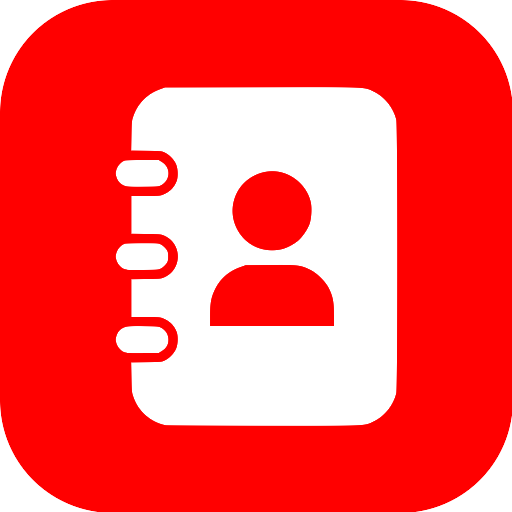
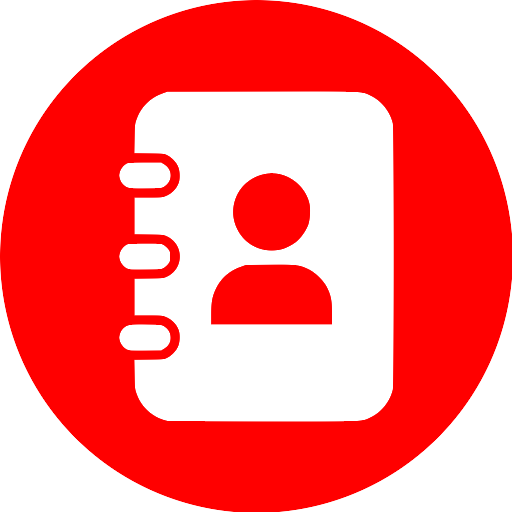
1.0.1: import, vCard and backup fixes, no fake-version warning
- Imported private contacts show up right away (issue #3)
- vCard 3 PREF keeps the preferred number on import (issue #4)
- Export and backups keep all parts of a full address (issue #5)
- Automatic backups are scheduled again after a reboot (issue #6)
- The empty dimmed window at the first start was Commons' "fake version"
  dialog, now removed (issue #1)
- Save row, tabs and settings stay above an on-screen navigation bar (#2)
- The editor keeps an unchanged address with its parts, no false
  "unsaved changes" prompt
- Stronger focused dialog button, icon in the shared DumberKit size

diff --git a/app/src/main/kotlin/org/fossify/contacts/activities/MainActivity.kt b/app/src/main/kotlin/org/fossify/contacts/activities/MainActivity.kt
@@ -114,9 +114,10 @@ class MainActivity : SimpleActivity(), RefreshContactsListener {
         appLaunched(BuildConfig.APPLICATION_ID)
         setupToolbar()
         keepFocusInList()
+        // a margin, not padding: the tabs have a fixed height, padding squeezed them under the navigation bar
         setupEdgeToEdge(
             padTopSystem = listOf(binding.mainTopBar),
-            padBottomImeAndSystem = listOf(binding.mainTabsHolder),
+            moveBottomSystem = listOf(binding.mainTabsHolder),
         )
         storeStateVariables()
         setupTabs()
@@ -355,6 +356,12 @@ class MainActivity : SimpleActivity(), RefreshContactsListener {
         binding.root.viewTreeObserver.addOnGlobalFocusChangeListener { _, newFocus ->
             val list = getCurrentFragment()?.getListView() ?: return@addOnGlobalFocusChangeListener
             val item = newFocus?.let { list.findContainingItemView(it) }
+            // back to normal once a row or the top bar has the focus again (see holdFocusInEmptyTab)
+            if (newFocus != null && newFocus != binding.viewPager && pagerFocusableBeforeHold != null) {
+                binding.viewPager.descendantFocusability = ViewGroup.FOCUS_AFTER_DESCENDANTS
+                binding.viewPager.isFocusable = pagerFocusableBeforeHold == true
+                pagerFocusableBeforeHold = null
+            }
             when {
                 item != null -> lastListPosition = list.getChildAdapterPosition(item)
                 allowLeavingList || newFocus == null || newFocus.isInside(binding.viewPager) -> lastListPosition = -1
@@ -471,6 +478,23 @@ class MainActivity : SimpleActivity(), RefreshContactsListener {
         return getCurrentFragment()?.focusContent(position) == true
     }
 
+    /**
+     * An empty tab (no favorites, no groups) has nothing to focus: the pager holds the focus, without a frame, so
+     * ← / → still switch the tabs and ↑ goes to the top bar. On the top bar the arrows would only move between its
+     * buttons.
+     */
+    private var pagerFocusableBeforeHold: Boolean? = null
+
+    private fun holdFocusInEmptyTab() {
+        if (pagerFocusableBeforeHold == null) {
+            pagerFocusableBeforeHold = binding.viewPager.isFocusable
+        }
+        binding.viewPager.isFocusable = true
+        binding.viewPager.defaultFocusHighlightEnabled = false
+        binding.viewPager.descendantFocusability = ViewGroup.FOCUS_BEFORE_DESCENDANTS
+        binding.viewPager.requestFocus()
+    }
+
     private fun focusTopBar() = moveFocusOutOfList {
         if (isSearchOpen) {
             binding.mainSearchInput.requestFocus()
@@ -505,7 +529,7 @@ class MainActivity : SimpleActivity(), RefreshContactsListener {
             pager.descendantFocusability = ViewGroup.FOCUS_AFTER_DESCENDANTS
             pager.isFocusable = wasFocusable
             if (!focusCurrentList(0)) {
-                focusTopBar()
+                holdFocusInEmptyTab()
             }
         }
         return true
@@ -603,7 +627,15 @@ class MainActivity : SimpleActivity(), RefreshContactsListener {
 
             KeyEvent.KEYCODE_DPAD_DOWN -> {
                 if (inTopBar) {
-                    focusCurrentList()
+                    if (!focusCurrentList()) {
+                        holdFocusInEmptyTab()
+                    }
+                    return true
+                }
+
+                // the empty tab got its first contact meanwhile
+                if (focused == binding.viewPager) {
+                    focusCurrentList(0)
                     return true
                 }
                 return false

diff --git a/app/src/main/kotlin/org/fossify/contacts/helpers/NoTouch.kt b/app/src/main/kotlin/org/fossify/contacts/helpers/NoTouch.kt
@@ -2,9 +2,14 @@ package org.fossify.contacts.helpers
 
 import android.annotation.SuppressLint
 import android.app.Activity
+import android.content.res.ColorStateList
 import android.view.View
+import android.view.ViewGroup
 import android.view.Window
 import android.view.WindowManager
+import android.widget.Button
+import android.widget.CompoundButton
+import org.fossify.commons.extensions.getProperTextColor
 import org.fossify.contacts.R
 import org.fossify.contacts.extensions.config
 
@@ -87,6 +92,8 @@ private fun coverOtherWindows() {
         }
 
         root.setTag(R.id.dpad_touch_blocker, true)
+        // the dialog's content may still be filled in right after it opens
+        root.post { colorFocusedDialogButtons(root) }
         if (root.context.config.dpadTouchEnabled) {
             return@forEach
         }
@@ -96,6 +103,26 @@ private fun coverOtherWindows() {
         try {
             (root.context.getSystemService(Activity.WINDOW_SERVICE) as WindowManager).updateViewLayout(root, params)
         } catch (ignored: Exception) {
+        }
+    }
+}
+
+/**
+ * Dialog buttons keep their own style (dpad_dialog_buttons.xml), only the focused one gets the text color: its label
+ * in the primary color was hard to read on the tinted background.
+ */
+private fun colorFocusedDialogButtons(view: View) {
+    if (view is Button && view !is CompoundButton && view.getTag(R.id.dpad_focus_prepared) == null) {
+        view.setTag(R.id.dpad_focus_prepared, true)
+        view.setTextColor(
+            ColorStateList(
+                arrayOf(intArrayOf(android.R.attr.state_focused), intArrayOf()),
+                intArrayOf(view.context.getProperTextColor(), view.currentTextColor)
+            )
+        )
+    } else if (view is ViewGroup) {
+        for (i in 0 until view.childCount) {
+            colorFocusedDialogButtons(view.getChildAt(i))
         }
     }
 }

diff --git a/app/src/main/kotlin/org/fossify/contacts/helpers/ModdedAppWarning.kt b/app/src/main/kotlin/org/fossify/contacts/helpers/ModdedAppWarning.kt
@@ -1,0 +1,42 @@
+package org.fossify.contacts.helpers
+
+import android.annotation.SuppressLint
+import android.app.Activity
+import android.view.View
+import android.view.ViewGroup
+import android.widget.TextView
+
+/**
+ * Commons warns "You are using a fake version of the app…" (its OK button opens Fossify's store page) in every app
+ * whose package doesn't start with org.fossify: at random in about every 50th screen and at every 100th start, the
+ * very first one included. Not true for this app, built from its own source on purpose; on Android 16 the dialog
+ * even came up empty and only dimmed the screen. Its window is removed as soon as the screen has been created, before
+ * anything is drawn. The window roots are found the same way as in NoTouch.kt.
+ */
+@SuppressLint("PrivateApi", "DiscouragedPrivateApi")
+fun Activity.removeModdedAppWarning() {
+    val roots = try {
+        val globalClass = Class.forName("android.view.WindowManagerGlobal")
+        val global = globalClass.getMethod("getInstance").invoke(null)
+        val field = globalClass.getDeclaredField("mViews")
+        field.isAccessible = true
+        (field.get(global) as? List<*>)?.filterIsInstance<View>().orEmpty()
+    } catch (ignored: Exception) {
+        return
+    }
+
+    roots.filter { it != window.decorView && it.showsModdedAppWarning() }.forEach {
+        try {
+            windowManager.removeViewImmediate(it)
+        } catch (ignored: Exception) {
+        }
+    }
+}
+
+private fun View.showsModdedAppWarning(): Boolean = when (this) {
+    is TextView -> text?.startsWith(MODDED_APP_WARNING_START) == true
+    is ViewGroup -> (0 until childCount).any { getChildAt(it).showsModdedAppWarning() }
+    else -> false
+}
+
+private const val MODDED_APP_WARNING_START = "You are using a fake version of the app"

diff --git a/app/src/main/kotlin/org/fossify/contacts/activities/EditContactActivity.kt b/app/src/main/kotlin/org/fossify/contacts/activities/EditContactActivity.kt
@@ -184,9 +184,11 @@ class EditContactActivity : ContactActivity() {
             return
         }
 
+        // the bottom inset shrinks the scroll view instead of padding it: Android's ScrollView ignores its padding when
+        // it scrolls to the focused row, the last row (Save) ended up under the navigation bar
         setupEdgeToEdge(
             padTopSystem = listOf(binding.contactScrollview),
-            padBottomImeAndSystem = listOf(binding.contactScrollview)
+            padBottomImeAndSystem = listOf(binding.contactWrapper)
         )
         setupMenu()
         setupDpadRows()
@@ -1604,7 +1606,14 @@ class EditContactActivity : ContactActivity() {
                 val addressLabel = if (addressType == StructuredPostal.TYPE_CUSTOM) addressHolder.contactAddressType.value else ""
 
                 if (address.isNotEmpty()) {
-                    addresses.add(Address(address, addressType, addressLabel, "", "", "", "", "", "", ""))
+                    // DumberKit: an address left as it was keeps its separate parts (city, postcode…), which this
+                    // single field doesn't show; without them it counted as changed and saving lost them
+                    val original = contact?.addresses?.getOrNull(i)
+                    if (original != null && original.value == address && original.type == addressType && original.label == addressLabel) {
+                        addresses.add(original)
+                    } else {
+                        addresses.add(Address(address, addressType, addressLabel, "", "", "", "", "", "", ""))
+                    }
                 }
             }
         }

diff --git a/app/src/main/kotlin/org/fossify/contacts/helpers/VcfImporter.kt b/app/src/main/kotlin/org/fossify/contacts/helpers/VcfImporter.kt
@@ -75,7 +75,9 @@ class VcfImporter(val activity: SimpleActivity) {
                         ""
                     }
 
-                    val preferred = getPreferredValue(it.types.lastOrNull()?.value) == 1
+                    // vCard 4 marks it with PREF=1, vCard 3 with a plain PREF among the types
+                    val preferred = getPreferredValue(it.types.lastOrNull()?.value) == 1 ||
+                        it.pref == 1 || it.types.any { type -> type.value.equals(PREF, ignoreCase = true) }
                     phoneNumbers.add(
                         PhoneNumber(
                             value = number,
@@ -289,6 +291,11 @@ class VcfImporter(val activity: SimpleActivity) {
         } catch (e: Exception) {
             activity.showErrorToast(e, Toast.LENGTH_LONG)
             contactsFailed++
+        }
+
+        // the private contacts aren't in Android's contacts provider, nothing tells the main screen about them
+        if (contactsImported > 0) {
+            ContactsChanges.pending = true
         }
 
         return when {

diff --git a/app/src/main/kotlin/org/fossify/contacts/App.kt b/app/src/main/kotlin/org/fossify/contacts/App.kt
@@ -27,6 +27,7 @@ import org.fossify.commons.activities.CustomizationActivity
 import org.fossify.contacts.helpers.applyDpadFocusHighlight
 import org.fossify.contacts.helpers.ignoreTouches
 import org.fossify.contacts.helpers.keepIconColorWithThemes
+import org.fossify.contacts.helpers.removeModdedAppWarning
 
 private const val ICON_ALIASES_MIGRATED = "dumberkit_red_icon_v3"
 
@@ -59,7 +60,10 @@ class App : FossifyApp() {
                 }
             }
 
-            override fun onActivityStarted(activity: Activity) {}
+            override fun onActivityStarted(activity: Activity) {
+                // shown by Commons in the screen's onCreate, see ModdedAppWarning.kt
+                activity.removeModdedAppWarning()
+            }
             override fun onActivityPaused(activity: Activity) {}
             override fun onActivityStopped(activity: Activity) {}
             override fun onActivitySaveInstanceState(activity: Activity, outState: Bundle) {}

diff --git a/app/src/main/kotlin/org/fossify/contacts/activities/DpadAboutActivity.kt b/app/src/main/kotlin/org/fossify/contacts/activities/DpadAboutActivity.kt
@@ -29,7 +29,9 @@ class DpadAboutActivity : SimpleActivity() {
     override fun onCreate(savedInstanceState: Bundle?) {
         super.onCreate(savedInstanceState)
         setContentView(binding.root)
-        setupEdgeToEdge(padBottomSystem = listOf(binding.aboutNestedScrollview))
+        // the bottom inset shrinks the scroll view instead of padding it: Android's NestedScrollView ignores its padding when
+        // it scrolls to the focused row, the last row ended up under the navigation bar
+        setupEdgeToEdge(moveBottomSystem = listOf(binding.aboutNestedScrollview))
 
         binding.aboutVersion.text = getString(R.string.dpad_about_version, BuildConfig.VERSION_NAME)
         binding.aboutIcon.setImageResource(getAppIconIDs().getOrNull(getAppIconColors().indexOf(baseConfig.appIconColor)) ?: R.mipmap.ic_launcher_red)

diff --git a/app/src/main/kotlin/org/fossify/contacts/activities/SettingsActivity.kt b/app/src/main/kotlin/org/fossify/contacts/activities/SettingsActivity.kt
@@ -40,7 +40,9 @@ class SettingsActivity : SimpleActivity() {
     override fun onCreate(savedInstanceState: Bundle?) {
         super.onCreate(savedInstanceState)
         setContentView(binding.root)
-        setupEdgeToEdge(padBottomSystem = listOf(binding.settingsNestedScrollview))
+        // the bottom inset shrinks the scroll view instead of padding it: Android's NestedScrollView ignores its padding when
+        // it scrolls to the focused row, the last row ended up under the navigation bar
+        setupEdgeToEdge(moveBottomSystem = listOf(binding.settingsNestedScrollview))
         setupMaterialScrollListener(binding.settingsNestedScrollview, binding.settingsAppbar)
     }
 

diff --git a/app/src/main/kotlin/org/fossify/contacts/helpers/VcfExporter.kt b/app/src/main/kotlin/org/fossify/contacts/helpers/VcfExporter.kt
@@ -129,8 +129,9 @@ class VcfExporter {
                             it.street,
                             it.neighborhood
                         )
-                            .map { it.isEmpty() }
-                            .fold(false) { a, b -> a || b }
+                            // DumberKit: the separate parts whenever there are any, the formatted address only
+                            // without them (Fossify wrote it alone when all parts were filled in)
+                            .any { it.isNotEmpty() }
                     ) {
                         address.country = it.country
                         address.region = it.region

diff --git a/app/src/main/kotlin/org/fossify/contacts/activities/ViewContactActivity.kt b/app/src/main/kotlin/org/fossify/contacts/activities/ViewContactActivity.kt
@@ -67,7 +67,9 @@ class ViewContactActivity : ContactActivity() {
             return
         }
 
-        setupEdgeToEdge(padTopSystem = listOf(binding.contactScrollview), padBottomSystem = listOf(binding.contactScrollview))
+        // the bottom inset shrinks the scroll view instead of padding it: Android's ScrollView ignores its padding when
+        // it scrolls to the focused row, the last row (Save) ended up under the navigation bar
+        setupEdgeToEdge(padTopSystem = listOf(binding.contactScrollview), padBottomSystem = listOf(binding.contactWrapper))
 
         showFields = config.showContactFields
         setupMenu()

diff --git a/app/src/main/kotlin/org/fossify/contacts/extensions/Context.kt b/app/src/main/kotlin/org/fossify/contacts/extensions/Context.kt
@@ -71,6 +71,9 @@ fun Context.checkAndBackupContactsOnBoot() {
         if (missedPreviousBackup) {
             // device was probably off at the scheduled time so backup now
             backupContacts()
+        } else {
+            // a reboot clears the alarms: the next backup has to be scheduled again
+            scheduleNextAutomaticBackup()
         }
     }
 }

diff --git a/CHANGELOG.md b/CHANGELOG.md
@@ -1,5 +1,19 @@
 # Changelog
 
+## [1.0.1] - 2026-10-16
+### Fixed
+- Contacts imported into the phone storage show up right away, not only after reopening the app
+- Exported and backed up addresses keep all their parts (PO box, city, postcode…) when every part is filled in
+- vCard 3 files keep the preferred phone number on import
+- Leaving the editor of a contact with an address no longer asks to save unchanged data, and saving other changes
+  keeps the address's separate parts (city, postcode…)
+- Automatic backups stay scheduled after a reboot
+- An empty dimmed window after the first permission prompt (Android 16): the warning "You are using a fake version of
+  the app", which Commons showed now and then and at the first start, no longer shows up
+- On phones with an on-screen navigation bar the tabs, the Save row and the last rows of the settings stay above it
+- The selected dialog button is much easier to see
+- The app icon has the same size as in the other DumberKit apps
+
 ## [1.0.0] - 2026-10-09
 First public release.
 ### Changed
